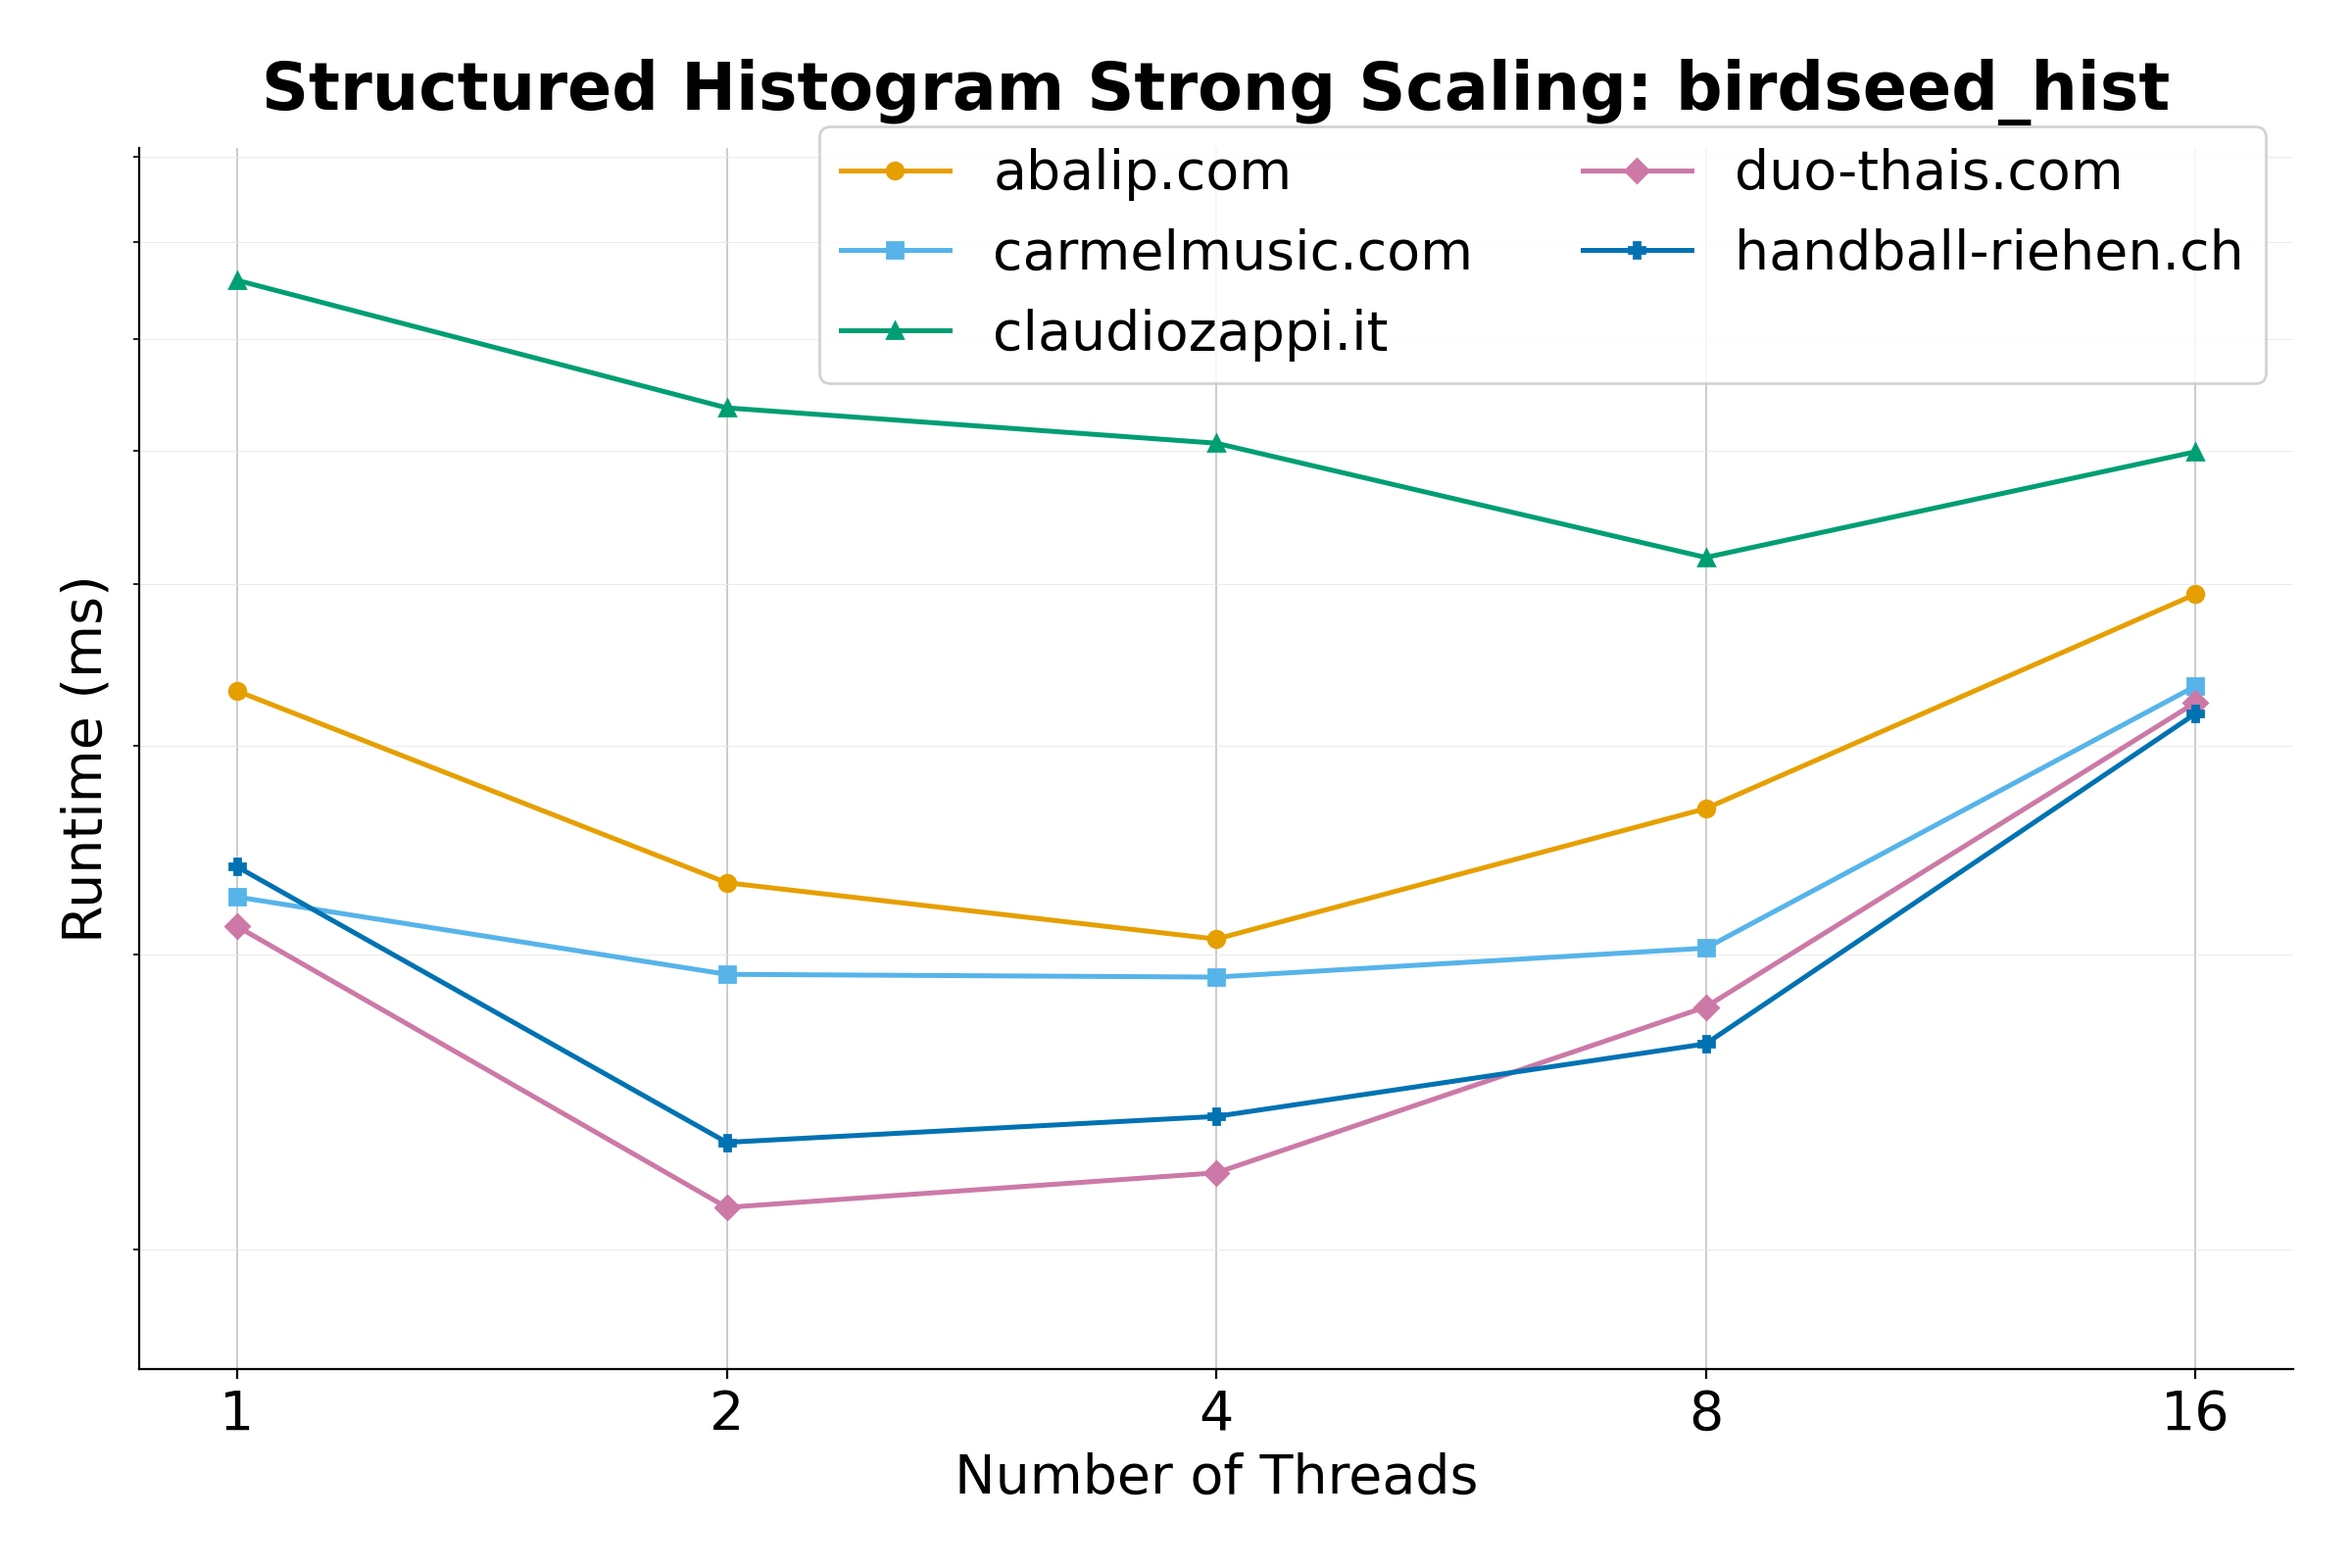
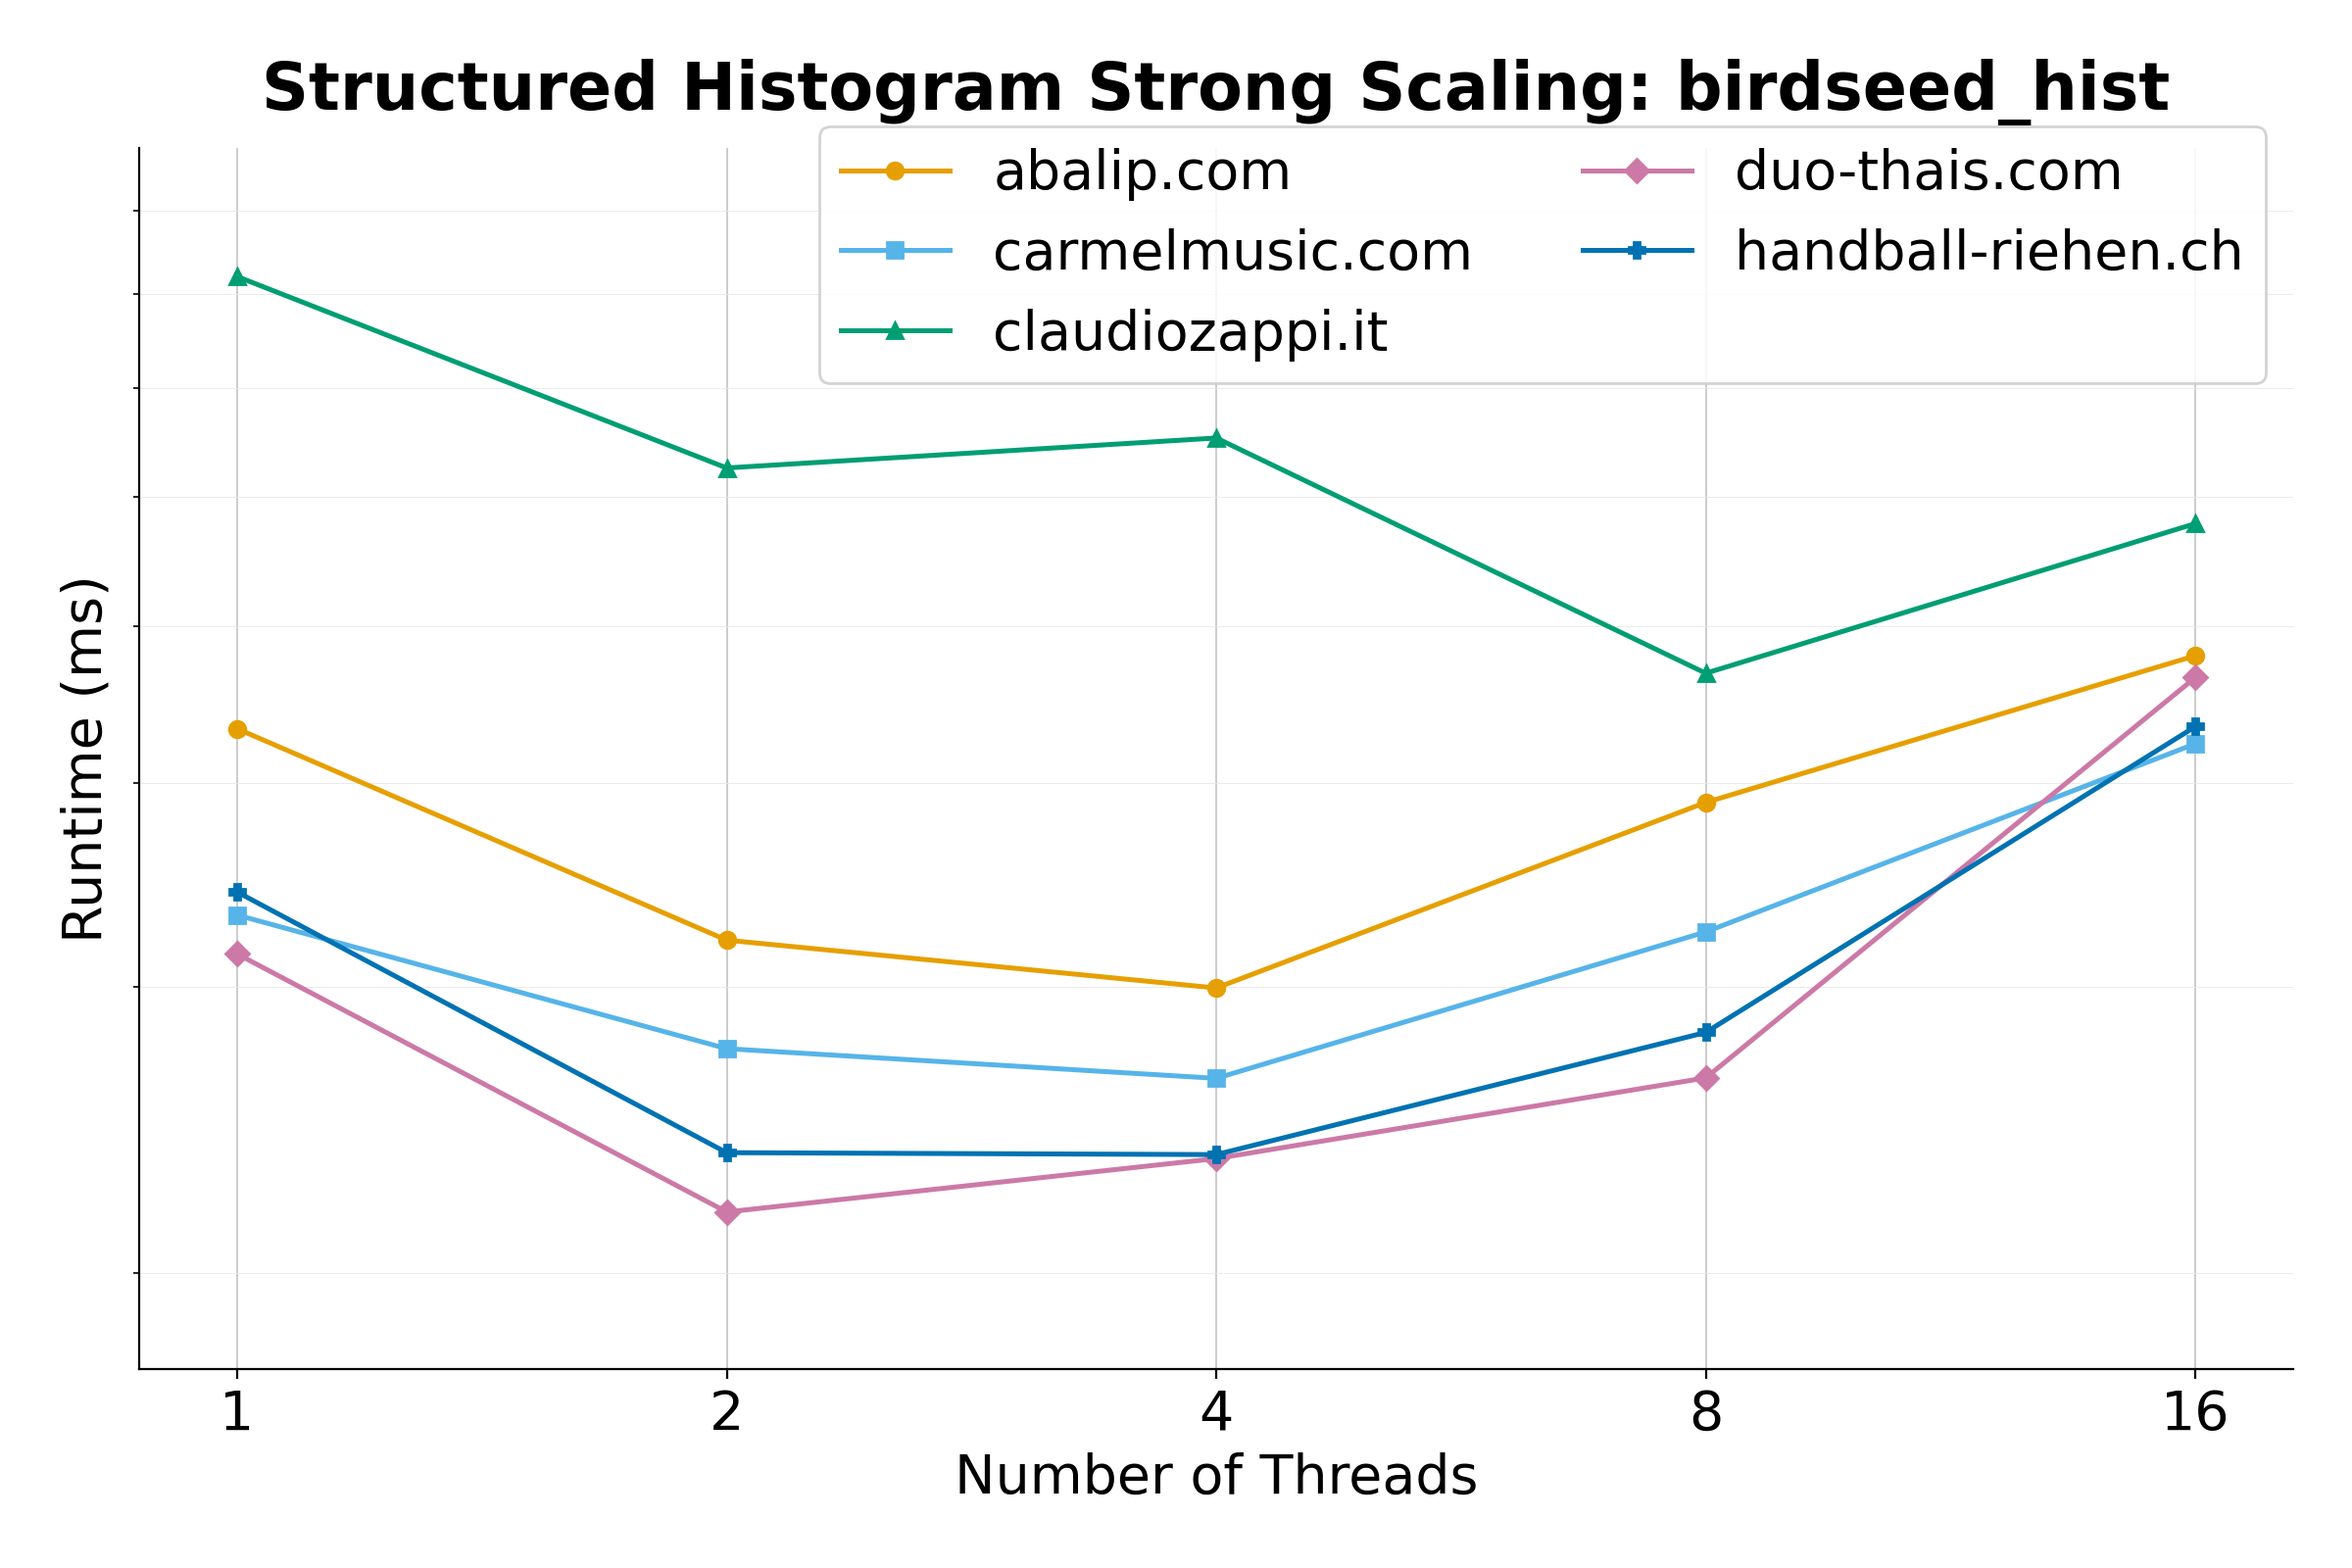
halide update

diff --git a/structured/histogram/halide_impl.cpp b/structured/histogram/halide_impl.cpp
@@ -126,23 +126,17 @@ int main(int argc, char **argv) {
     histogram(r_val, g_val, b_val) += 1;
 
     RVar yo("yo"), yi("yi");
-    Var u("u");
     int split_factor = (height + n_threads - 1) / n_threads;
     if (split_factor <= 0) split_factor = 1;
     if (split_factor > height) split_factor = height > 0 ? height : 1;
 
     try {
+        histogram.vectorize(r, 16).parallel(b);
+
         histogram.update(0)
-            .split(px.y, yo, yi, Expr(split_factor), TailStrategy::GuardWithIf);
-
-        // shard accross threads
-        Func local_hist = histogram.update(0).rfactor(yo, u);
-        local_hist.compute_root().parallel(u);
-        local_hist.update(0).parallel(u);
-
-        // merge
-        histogram.parallel(b);
-        histogram.update(0).reorder(r, yo, g, b).parallel(b);
+            .split(px.y, yo, yi, Expr(split_factor), TailStrategy::GuardWithIf)
+            .atomic()
+            .parallel(yo);
     } catch (const Halide::CompileError &e) {
         std::cerr << "Halide compile error during scheduling: " << e.what() << std::endl;
         return 1;
@@ -150,11 +144,13 @@ int main(int argc, char **argv) {
         std::cerr << "Error during scheduling: " << e.what() << std::endl;
         return 1;
     }
-    
+
 
 
     input.set(input_buf);
     Buffer<int32_t> output_hist(256, 256, 256);
+
+    histogram.compile_jit();
 
     auto time = benchmark(
         [&]() {
